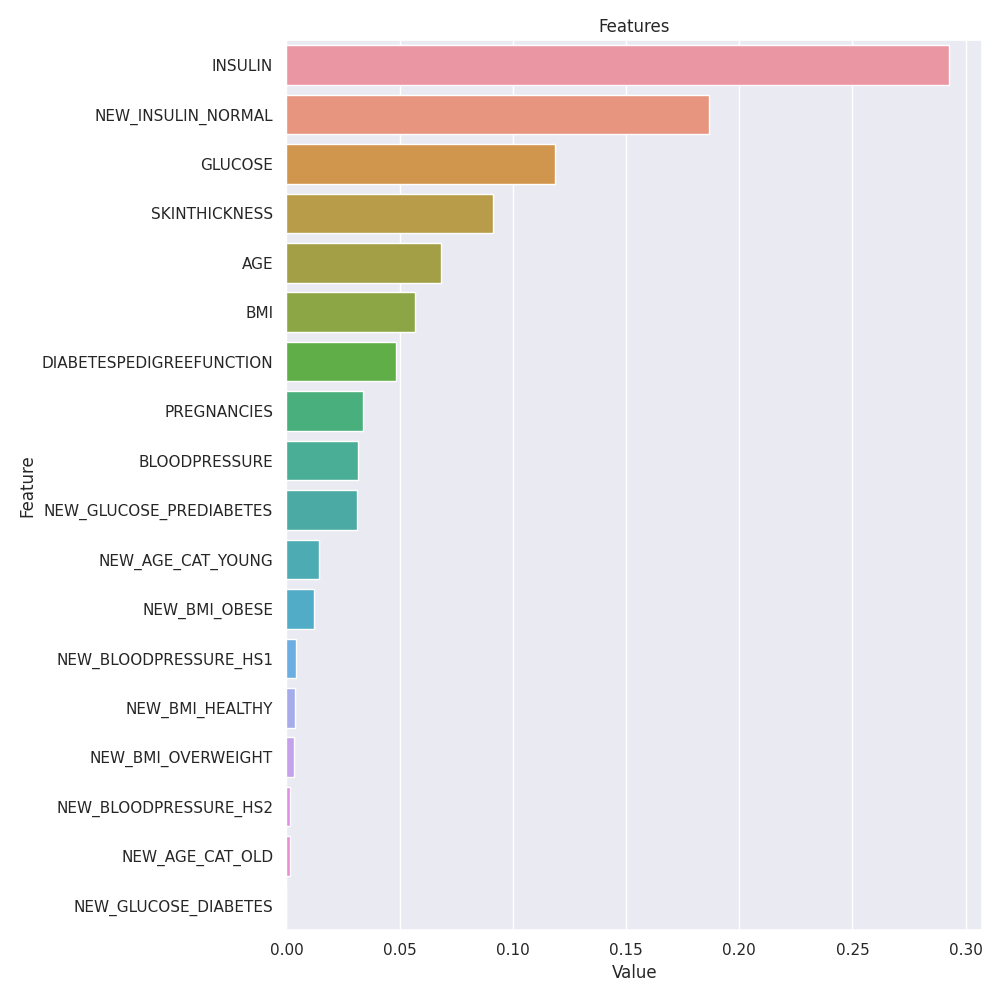
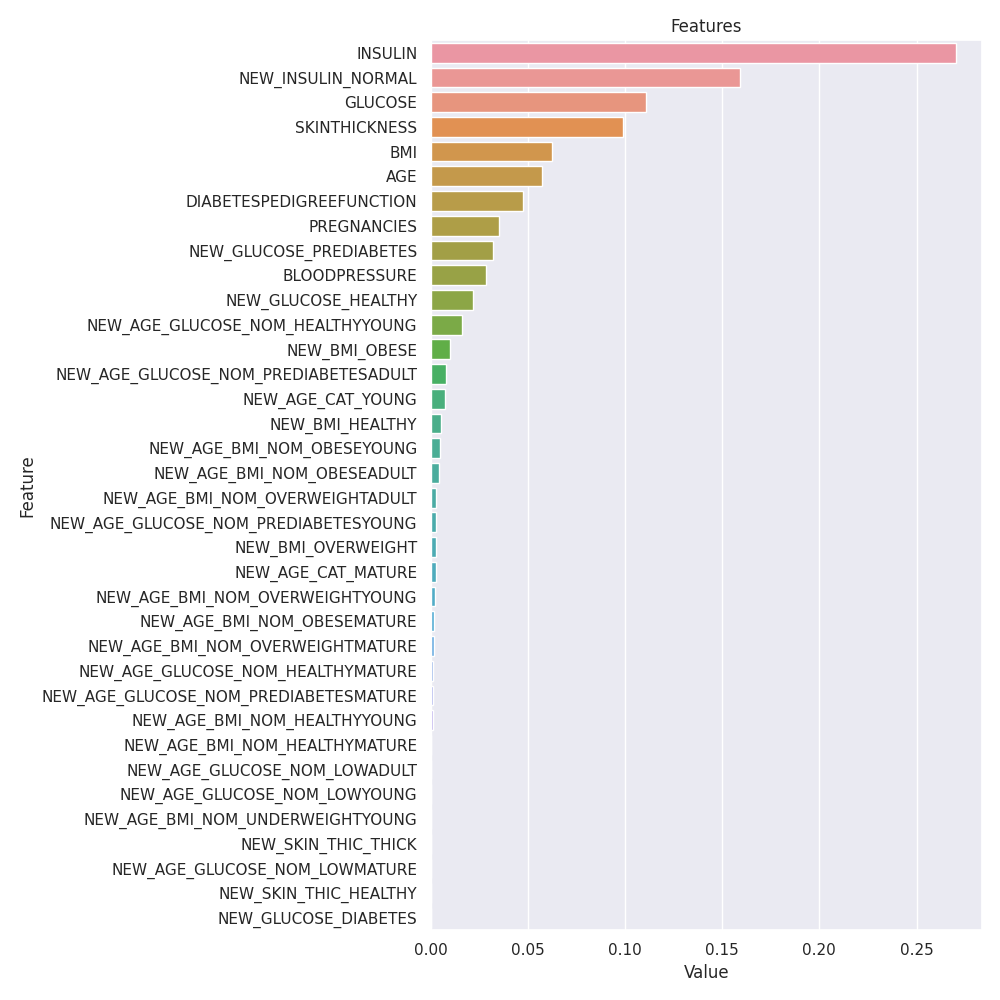
base model kısmında yenilik yapıldı ve plot_metrics eklendi.

diff --git a/main.py b/main.py
@@ -5,12 +5,13 @@ import numpy as np
 from matplotlib import pyplot as plt
 from sklearn.ensemble import RandomForestClassifier, GradientBoostingClassifier, VotingClassifier, AdaBoostClassifier
 from sklearn.linear_model import LogisticRegression
-from sklearn.model_selection import cross_val_predict, GridSearchCV, cross_val_score
+from sklearn.model_selection import cross_val_predict, GridSearchCV, cross_val_score, train_test_split
 from sklearn.neighbors import KNeighborsClassifier
 from sklearn.svm import SVC
 from sklearn.tree import DecisionTreeClassifier
 from sklearn.preprocessing import StandardScaler
 from xgboost import XGBClassifier
+from scikitplot.metrics import plot_roc_curve
 from lightgbm import LGBMClassifier
 from catboost import CatBoostClassifier
 import warnings
@@ -61,13 +62,26 @@ fig = sns.boxplot(data=data, orient="h") #horizontally (grafiği yatayda alabilm
 sns.clustermap(data.corr(), annot = True, fmt = ".2f")
 #plt.show()
 
-# BASE MODEL KURULUMU
+#F1, ROC_AUC, ACCURACY VB GİBİ DEĞERLERİN GRAFİKLEŞTİRİLMESİ
 
+def plot_metric(metric, model_results):
+    models = list(model_results.keys())
+    values = [model_results[model][metric] for model in models]
+
+    plt.figure(figsize=(8, 6))
+    plt.bar(models, values)
+    plt.xlabel('Models')
+    plt.ylabel(metric)
+    plt.title(f'{metric} Comparison Among Models')
+    plt.ylim(0, 1)  # Performans metrikleri genellikle 0 ile 1 arasında olur
+    plt.show()
+
+# BASE MODEL KURULUMU
 def base_models(X, y):
     print("Base Models....")
     classifiers = [('LR', LogisticRegression()),
                    ('KNN', KNeighborsClassifier()),
-                   #("SVC", SVC()),
+                   ("SVC", SVC()),
                    ("CART", DecisionTreeClassifier()),
                    ("RF", RandomForestClassifier()),
                    ('Adaboost', AdaBoostClassifier()),
@@ -76,19 +90,40 @@ def base_models(X, y):
                    #('LightGBM', LGBMClassifier()),
                    # ('CatBoost', CatBoostClassifier(verbose=False))
                    ]
+    results = {}  # Performans ölçütlerini saklamak için bir sözlük
 
     for name, classifier in classifiers:
         print(name)
+        classifier_scores = {}
         for score in ["roc_auc", "f1", "precision", "recall", "accuracy"]:
             cv_results = cross_val_score(classifier, X, y, cv=5, scoring=score).mean()
             print(score + " score:" + str(cv_results))
+            classifier_scores[score] = cv_results
+
+        results[name] = classifier_scores
         print("\n")
 
+    return results
+
+def plot_roc_curves(models, X_test, y_test):
+    plt.figure(figsize=(10, 6))
+    for name, model in models.items():
+        plot_roc_curve(model, X_test, y_test, name=name)
+
+    plt.title('Receiver Operating Characteristic (ROC) Curves')
+    plt.legend()
+    plt.show()
 
 y = data["OUTCOME"]
 X = data.drop("OUTCOME", axis=1)
-base_models(X, y)
 
+model_results = base_models(X,y)
+
+# Her bir performans metriği için grafik oluşturma
+metrics = list(model_results[list(model_results.keys())[0]].keys())
+
+for metric in metrics:
+    plot_metric(metric, model_results)
 def plot_importance(model, features, num=len(X), save=True):
     feature_imp = pd.DataFrame({'Value': model.feature_importances_, 'Feature': features.columns})
     plt.figure(figsize=(10, 10))
@@ -264,6 +299,7 @@ plt.show()
 #data["AGE"].min()
 
 #FEATURE ENGINEERING
+"""
 # Yaş değişkenini kategorilere ayırıp yeni yaş değişkeni oluşturulması
 data.loc[(data['AGE'] < 35), "NEW_AGE_CAT"] = 'young'
 data.loc[(data['AGE'] >= 35) & (data['AGE'] <= 55), "NEW_AGE_CAT"] = 'middleage'
@@ -290,14 +326,82 @@ data["INSULIN"].max()
 data.head()
 
 '''
-# # Yaş ve beden kitle indeksini bir arada düşünerek kategorik değişken oluşturma
+# Yaş ve beden kitle indeksini bir arada düşünerek kategorik değişken oluşturma
 data.loc[(data["BMI"] < 18.5) & ((data['AGE'] >= 35) & (data['AGE'] <= 55)), "NEW_AGE_BMI_NOM"] = "underweight_middleage"
 
 # Yaş ve Glikoz değerlerini bir arada düşünerek kategorik değişken oluşturma
 data.loc[(data["GLUCOSE"] < 70) & ((data['AGE'] >= 35) & (data['AGE'] <= 55)), "NEW_AGE_GLUCOSE_NOM"] = "low_middleage"
-
-
 '''
+"""
+
+# Yaş değişkenini kategorilere ayırıp yeni yaş değişkeni oluşturulması
+data.loc[(data["AGE"] >= 18) & (data["AGE"] <= 32), "NEW_AGE_CAT"] = "Young"
+data.loc[(data["AGE"] >  32) & (data["AGE"] <  50), "NEW_AGE_CAT"] = "Adult"
+data.loc[(data["AGE"] >= 50), "NEW_AGE_CAT"] = "Mature"
+
+# BMI 18,5 aşağısı underweight, 18.5 ile 24.9 arası normal, 24.9 ile 29.9 arası Overweight ve 30 üstü obez
+data['NEW_BMI'] = pd.cut(x=data['BMI'], bins=[0, 18.5, 24.9, 29.9, 100],labels=["Underweight", "Healthy", "Overweight", "Obese"])
+
+# Glukoz degerini kategorik değişkene çevirme
+data["NEW_GLUCOSE"] = pd.cut(x=data["GLUCOSE"], bins=[0, 70, 140, 200, 300], labels=["Low", "Healthy", "Prediabetes", "Diabetes"])
+
+# Deri Kalinligi degerini kategorik degiskene cevirme mm turunden
+data["NEW_SKIN_THIC"] = pd.cut(x=data["SKINTHICKNESS"], bins=[1.25, 2, 2.5, 3.25], labels=["Thin", "Healthy", "Thick"])
+
+# # Yaş ve beden kitle indeksini bir arada düşünerek kategorik değişken oluşturma 3 kırılım yakalandı
+data.loc[(data["BMI"] < 18.5) & ((data["AGE"] >= 18) & (data["AGE"] <= 32)), "NEW_AGE_BMI_NOM"] = "UnderweightYoung"
+data.loc[(data["BMI"] < 18.5) & ((data["AGE"] > 32) & (data["AGE"] < 50)), "NEW_AGE_BMI_NOM"] = "UnderweightAdult"
+data.loc[(data["BMI"] < 18.5) & (data["AGE"] >= 50), "NEW_AGE_BMI_NOM"] = "UnderweightMature"
+data.loc[((data["BMI"] >= 18.5) & (data["BMI"] < 25)) & ((data["AGE"] >= 18) & (data["AGE"] <= 32)), "NEW_AGE_BMI_NOM"] = "HealthyYoung"
+data.loc[((data["BMI"] >= 18.5) & (data["BMI"] < 25)) & ((data["AGE"] > 32) & (data["AGE"] < 50)), "NEW_AGE_BMI_NOM"] = "HealthyAdult"
+data.loc[((data["BMI"] >= 18.5) & (data["BMI"] < 25)) & (data["AGE"] >= 50), "NEW_AGE_BMI_NOM"] = "HealthyMature"
+data.loc[((data["BMI"] >= 25) & (data["BMI"] < 30)) & ((data["AGE"] >= 18) & (data["AGE"] <= 32)), "NEW_AGE_BMI_NOM"] = "OverweightYoung"
+data.loc[((data["BMI"] >= 25) & (data["BMI"] < 30)) & ((data["AGE"] > 32) & (data["AGE"] < 50)), "NEW_AGE_BMI_NOM"] = "OverweightAdult"
+data.loc[((data["BMI"] >= 25) & (data["BMI"] < 30)) & (data["AGE"] >= 50), "NEW_AGE_BMI_NOM"] = "OverweightMature"
+data.loc[(data["BMI"] > 30) & ((data["AGE"] >= 18) & (data["AGE"] <= 32)), "NEW_AGE_BMI_NOM"] = "ObeseYoung"
+data.loc[(data["BMI"] > 30) & ((data["AGE"] > 32) & (data["AGE"] < 50)), "NEW_AGE_BMI_NOM"] = "ObeseAdult"
+data.loc[(data["BMI"] > 30) & (data["AGE"] >= 50), "NEW_AGE_BMI_NOM"] = "ObeseMature"
+
+# Yaş ve Glikoz değerlerini bir arada düşünerek kategorik değişken oluşturma
+data.loc[(data["GLUCOSE"] < 70) & ((data["AGE"] >= 18) & (data["AGE"] <= 32)), "NEW_AGE_GLUCOSE_NOM"] = "LowYoung"
+data.loc[(data["GLUCOSE"] < 70) & ((data["AGE"] > 32) & (data["AGE"] < 50)), "NEW_AGE_GLUCOSE_NOM"] = "LowAdult"
+data.loc[(data["GLUCOSE"] < 70) & (data["AGE"] >= 50), "NEW_AGE_GLUCOSE_NOM"] = "LowMature"
+data.loc[((data["GLUCOSE"] >= 70) & (data["GLUCOSE"] < 140)) & ((data["AGE"] >= 18) & (data["AGE"] <= 32)), "NEW_AGE_GLUCOSE_NOM"] = "HealthyYoung"
+data.loc[((data["GLUCOSE"] >= 70) & (data["GLUCOSE"] < 140)) & ((data["AGE"] > 32) & (data["AGE"] < 50)), "NEW_AGE_GLUCOSE_NOM"] = "HealthyAdult"
+data.loc[((data["GLUCOSE"] >= 70) & (data["GLUCOSE"] < 140)) & (data["AGE"] >= 50), "NEW_AGE_GLUCOSE_NOM"] = "HealthyMature"
+data.loc[((data["GLUCOSE"] >= 140) & (data["GLUCOSE"] <= 200)) & ((data["AGE"] >= 18) & (data["AGE"] <= 32)), "NEW_AGE_GLUCOSE_NOM"] = "PrediabetesYoung"
+data.loc[((data["GLUCOSE"] >= 140) & (data["GLUCOSE"] <= 200)) & ((data["AGE"] > 32) & (data["AGE"] < 50)), "NEW_AGE_GLUCOSE_NOM"] = "PrediabetesAdult"
+data.loc[((data["GLUCOSE"] >= 140) & (data["GLUCOSE"] <= 200)) & (data["AGE"] >= 50), "NEW_AGE_GLUCOSE_NOM"] = "PrediabetesMature"
+data.loc[(data["GLUCOSE"] > 200) & ((data["AGE"] >= 18) & (data["AGE"] <= 32)), "NEW_AGE_GLUCOSE_NOM"] = "DiabetesYoung"
+data.loc[(data["GLUCOSE"] > 200) & ((data["AGE"] > 32) & (data["AGE"] < 50)), "NEW_AGE_GLUCOSE_NOM"] = "DiabetesAdult"
+data.loc[(data["GLUCOSE"] > 200) & (data["AGE"] >= 50), "NEW_AGE_GLUCOSE_NOM"] = "DiabetesMature"
+
+# Deri Kalinligi ve Beden Kitle Indeksi degerlerini bir arada dusunerek kategorik degisken olusturma
+data.loc[(data["BMI"] < 18.5) & ((data["SKINTHICKNESS"] > 1.25) & (data["SKINTHICKNESS"] <= 2)), "NEW_BMI_SKIN_THIC_NOM"] = "UnderweightThin"
+data.loc[(data["BMI"] < 18.5) & ((data["SKINTHICKNESS"] > 2) & (data["SKINTHICKNESS"] <= 2.5)), "NEW_BMI_SKIN_THIC_NOM"] = "UnderweightHealthy"
+data.loc[(data["BMI"] < 18.5) & ((data["SKINTHICKNESS"] > 2.5) & (data["SKINTHICKNESS"] <= 3.25)), "NEW_BMI_SKIN_THIC_NOM"] = "UnderweightThick"
+data.loc[((data["BMI"] >= 18.5) & (data["BMI"] < 25)) & ((data["SKINTHICKNESS"] > 1.25) & (data["SKINTHICKNESS"] <= 2)), "NEW_BMI_SKIN_THIC_NOM"] = "HealthyThin"
+data.loc[((data["BMI"] >= 18.5) & (data["BMI"] < 25)) & ((data["SKINTHICKNESS"] > 2) & (data["SKINTHICKNESS"] <= 2.5)), "NEW_BMI_SKIN_THIC_NOM"] = "Healthy_Healthy"
+#data.loc[((data["BMI"] >= 18.5) % (data["BMI"] < 25)) & ((data["SKINTHICKNESS"] > 2 & (data["SKINTHICKNESS"] <= 2.5)), "NEW_BMI_SKIN_THIC_NOM"] = "Healthy_Healthy"
+data.loc[((data["BMI"] >= 18.5)) & (data["BMI"] < 25) & ((data["SKINTHICKNESS"] > 2.5) & (data["SKINTHICKNESS"] <= 3.25)), "NEW_BMI_SKIN_THIC_NOM"] = "HealthyThick"
+data.loc[((data["BMI"] >= 25) % (data["BMI"] < 30)) & ((data["SKINTHICKNESS"] > 1.25) & (data["SKINTHICKNESS"] <= 2)), "NEW_BMI_SKIN_THIC_NOM"] = "OverweightThin"
+data.loc[((data["BMI"] >= 25) % (data["BMI"] < 30)) & ((data["SKINTHICKNESS"] > 2) & (data["SKINTHICKNESS"] <= 2.5)), "NEW_BMI_SKIN_THIC_NOM"] = "OverweightHealthy"
+data.loc[((data["BMI"] >= 25) % (data["BMI"] < 30)) & ((data["SKINTHICKNESS"] > 2.5) & (data["SKINTHICKNESS"] <= 3.25)), "NEW_BMI_SKIN_THIC_NOM"] = "OverweightThick"
+data.loc[(data["BMI"] > 30) & ((data["SKINTHICKNESS"] > 1.25) & (data["SKINTHICKNESS"] <= 2)), "NEW_BMI_SKIN_THIC_NOM"] = "ObeseThin"
+data.loc[(data["BMI"] > 30) & ((data["SKINTHICKNESS"] > 2) & (data["SKINTHICKNESS"] <= 2.5)), "NEW_BMI_SKIN_THIC_NOM"] = "ObeseHealthy"
+data.loc[(data["BMI"] > 30) & ((data["SKINTHICKNESS"] > 2.5) & (data["SKINTHICKNESS"] <= 3.25)), "NEW_BMI_SKIN_THIC_NOM"] = "ObeseThick"
+
+# Deri Kalinligi ve Insulin degerlerini bir arada dusunerek kategorik degisken olusturma
+data.loc[((data["SKINTHICKNESS"] > 1.25) & (data["SKINTHICKNESS"] <= 2)) & ((data["INSULIN"] >= 16) & (data["INSULIN"] <=160)), "NEW_BMI_SKIN_THIC_NOM"] = "ThinNormal"
+data.loc[((data["SKINTHICKNESS"] > 1.25) & (data["SKINTHICKNESS"] <= 2)) & (data["INSULIN"] >=160), "NEW_BMI_SKIN_THIC_NOM"] = "ThinAbNormal"
+data.loc[((data["SKINTHICKNESS"] > 2) & (data["SKINTHICKNESS"] <= 2.5)) & ((data["INSULIN"] >= 16) & (data["INSULIN"] <=160)), "NEW_BMI_SKIN_THIC_NOM"] = "HealthyNormal"
+data.loc[((data["SKINTHICKNESS"] > 2) & (data["SKINTHICKNESS"] <= 2.5)) & (data["INSULIN"] >=160), "NEW_BMI_SKIN_THIC_NOM"] = "HealthyAbNormal"
+data.loc[((data["SKINTHICKNESS"] > 2.5) & (data["SKINTHICKNESS"] <= 3)) & ((data["INSULIN"] >= 16) & (data["INSULIN"] <=160)), "NEW_BMI_SKIN_THIC_NOM"] = "ThickNormal"
+data.loc[((data["SKINTHICKNESS"] > 2.5) & (data["SKINTHICKNESS"] <= 3)) & (data["INSULIN"] >=160), "NEW_BMI_SKIN_THIC_NOM"] = "ThickAbNormal"
+
+# Insulin
+data['NEW_INSULIN'] = data['INSULIN'].apply(lambda x: "Normal" if 16 <= x <= 166 else "Abnormal")
+
 
 cat_cols, num_cols, cat_but_car=grab_col_names(data,cat_th=5, car_th=15)
 cat_cols = [col for col in cat_cols if "OUTCOME" not in col]
@@ -322,7 +426,13 @@ y = data["OUTCOME"]
 X = data.drop(["OUTCOME"], axis=1)
 check_df(data)
 
-base_models(X, y)
+model_results = base_models(X, y)
+
+# Her bir performans metriği için grafik oluşturma
+metrics = list(model_results[list(model_results.keys())[0]].keys())
+
+for metric in metrics:
+    plot_metric(metric, model_results)
 
 #Random Forest Model
 rf_model = RandomForestClassifier(random_state=46)
@@ -351,3 +461,4 @@ final_rf_model.predict(random_user)
 data.loc[195]
 
 plot_importance(final_rf_model, X, save=True)
+
